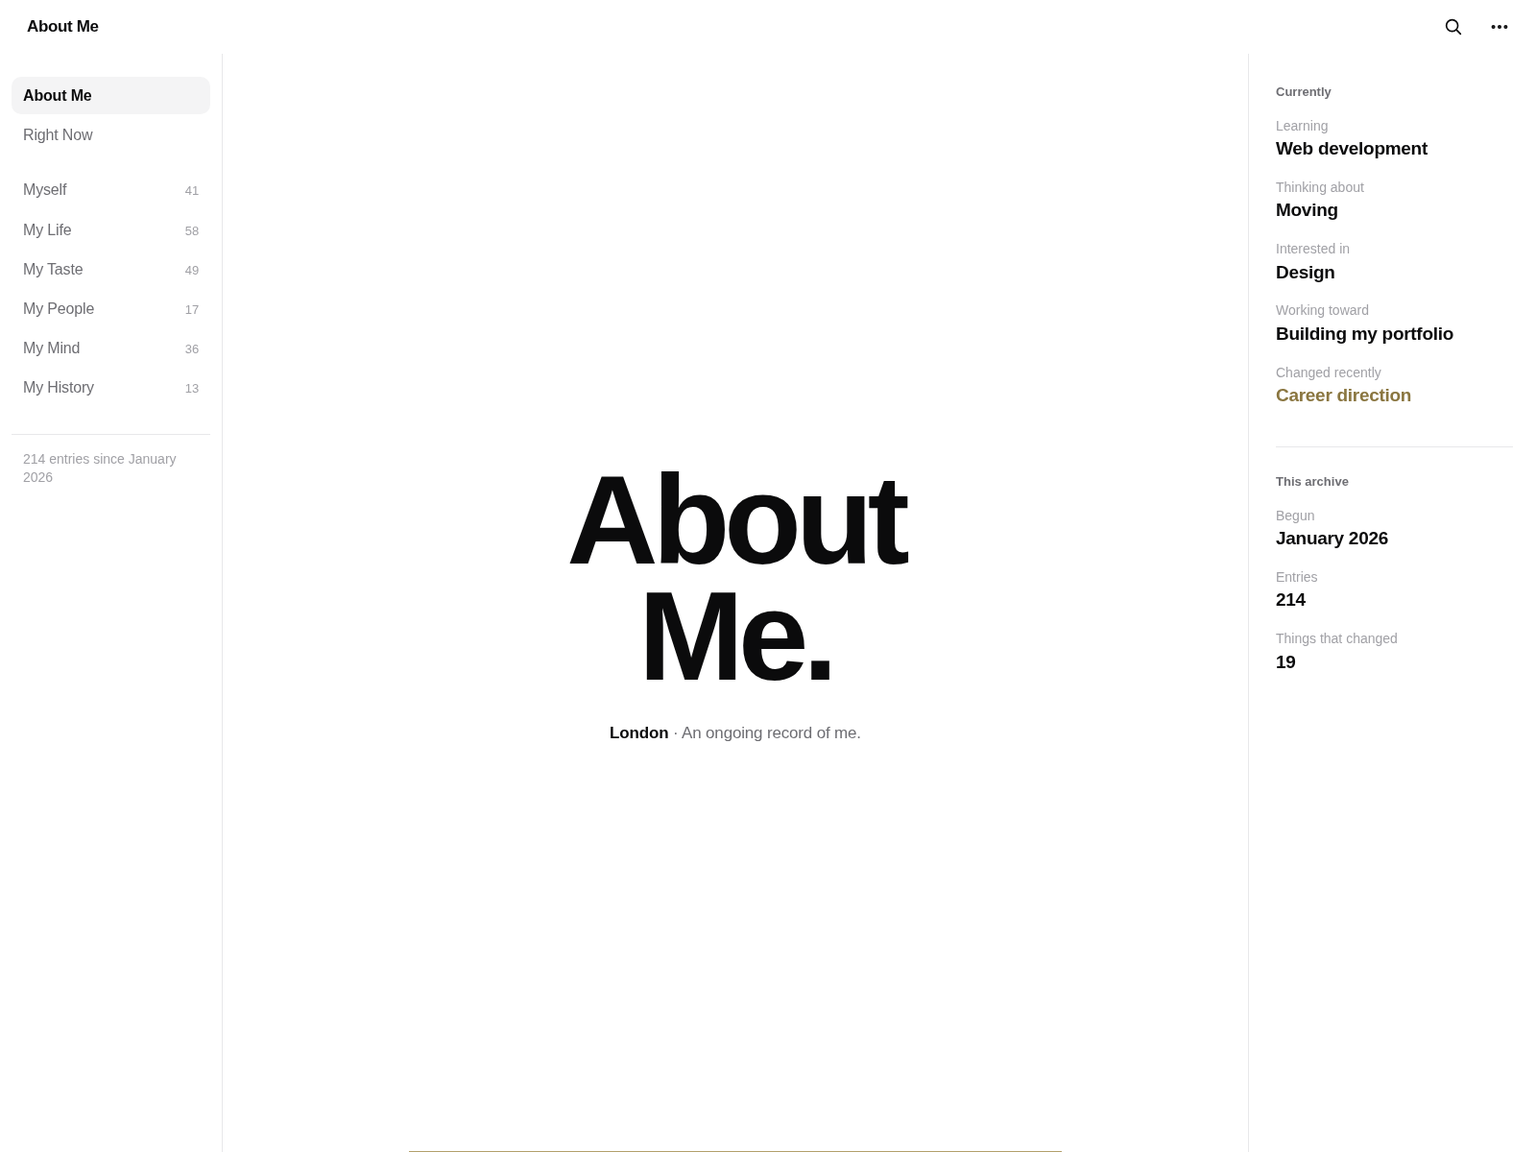
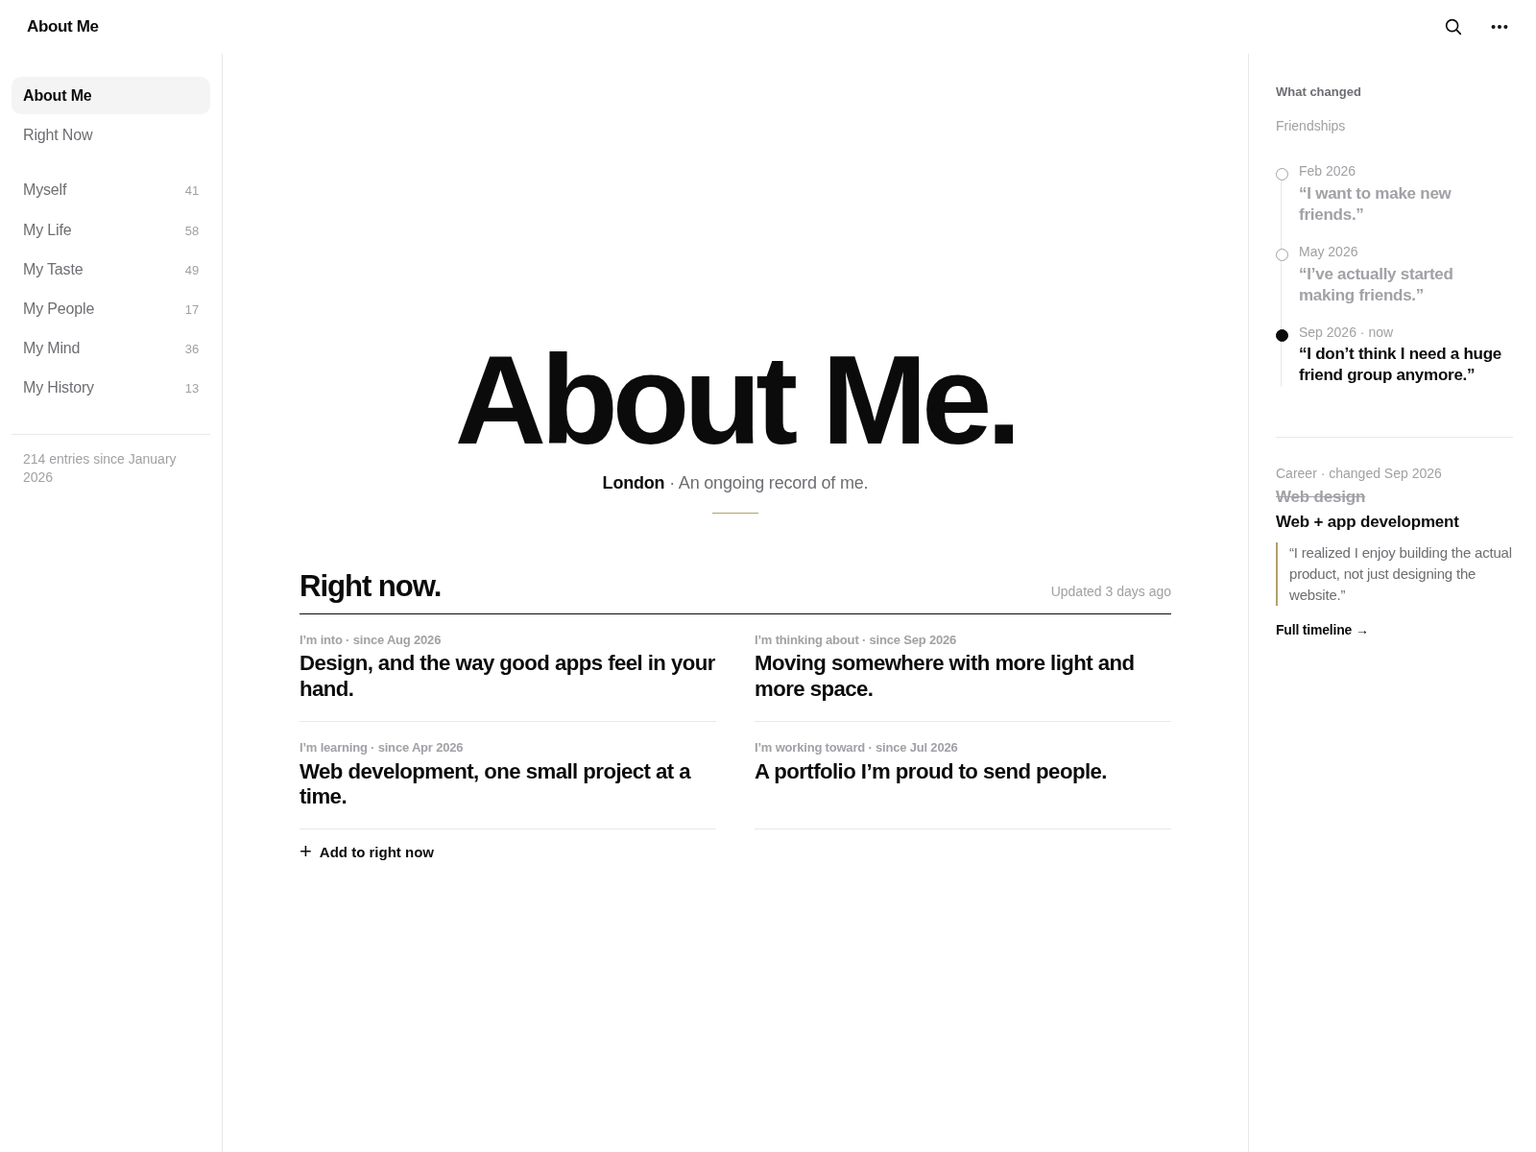
Fit the About Me home screen to one iPad screen with no scrolling
Condense the portrait home into statement, 2x2 Right Now, 3x2 chapter
grid and a two-line What Changed strip, with type scaled to window
height. Landscape centres the statement and Right Now, and moves the
change history into the right panel.

Claude-Session: https://claude.ai/code/session_01B2jaZ1SNYJtGLSRg6z58ic

diff --git a/home.html b/home.html
@@ -93,8 +93,10 @@ p { margin: 0; }
     border-right: 1px solid var(--rule);
   }
   .main { padding-inline: clamp(40px, 5vw, 80px); }
-  .chapters-index { display: none; }   /* the sidebar is the index now */
-  .hero { min-height: calc(100dvh - var(--bar-h) - env(safe-area-inset-top, 0px)); }
+  .home .book { display: none; }                    /* the sidebar is the index now */
+  .home { align-content: center !important; gap: clamp(24px, 5vh, 64px) !important; }
+  .home .statement h1 span { display: inline; }            /* one line in landscape */
+  .home .statement h1 { font-size: clamp(56px, 11vh, 132px); }
 }
 /* ── Landscape, wide: + context panel ───────────────────── */
 @media (orientation: landscape) and (min-width: 1100px) {
@@ -104,6 +106,7 @@ p { margin: 0; }
     height: calc(100dvh - var(--bar-h) - env(safe-area-inset-top, 0px)); overflow-y: auto;
     padding: 32px max(24px, env(safe-area-inset-right, 0px)) 32px 28px; border-left: 1px solid var(--rule);
   }
+  .home .latest { display: none; }                  /* lives in the context panel */
 }
 
 /* ── Sidebar / drawer nav ───────────────────────────────── */
@@ -118,73 +121,68 @@ p { margin: 0; }
 .nav .gap { height: 14px; }
 .nav-foot { margin-top: 28px; padding: 16px 12px 0; border-top: 1px solid var(--rule); }
 
-/* ── Home: the statement ────────────────────────────────── */
-.hero {
-  min-height: calc(100svh - var(--bar-h) - env(safe-area-inset-top, 0px) - env(safe-area-inset-bottom, 0px));
-  display: grid; place-content: center; justify-items: center; text-align: center; gap: 28px; position: relative;
-  padding-block: 48px;
-}
-.hero h1 { font: 800 var(--t-hero)/.92 var(--sans); letter-spacing: -.045em; }
-.hero h1 span { display: block; }
-.hero .sub { font: 500 17px/1.4 var(--sans); color: var(--muted); letter-spacing: -.01em; }
-.hero .sub b { color: var(--ink); font-weight: 600; }
-.hero::after {   /* the thin gold line from the reference */
-  content: ""; position: absolute; left: 50%; bottom: 0; width: min(100vw, 100%); transform: translateX(-50%);
-  height: 1px; background: var(--gold);
-}
+/* ── Home: one screen, no scroll on iPad ────────────────── */
+.home { max-width: 960px; margin-inline: auto; display: grid; gap: 40px; padding-block: 32px 48px; }
+.statement { display: grid; justify-items: center; text-align: center; gap: 14px; }
+.statement h1 { font: 800 clamp(52px, 7.6vh, 124px)/.9 var(--sans); letter-spacing: -.045em; }
+.statement h1 span { display: block; }
+.statement .sub { font: 500 clamp(15px, 1.5vh, 18px)/1.4 var(--sans); color: var(--muted); }
+.statement .sub b { color: var(--ink); font-weight: 600; }
+.statement::after { content: ""; width: 48px; height: 1px; background: var(--gold); margin-top: 4px; }
 
-.section { margin-top: 120px; }
-.section-head { display: flex; justify-content: space-between; align-items: baseline; gap: 16px; margin-bottom: 8px; }
-.section-title { font: 800 var(--t-chapter)/1 var(--sans); letter-spacing: -.035em; }
+.block-head { display: flex; justify-content: space-between; align-items: baseline; gap: 16px; padding-bottom: 12px; border-bottom: 1px solid var(--ink); }
+.block-head h2 { font: 800 clamp(24px, 2.6vh, 34px)/1 var(--sans); letter-spacing: -.035em; }
 
-/* ── Right now ──────────────────────────────────────────── */
-.now ul { margin: 0; padding: 0; }
-.now li { list-style: none; padding-block: 26px; border-bottom: 1px solid var(--rule); display: grid; gap: 8px; }
-.now .sentence { font: 700 var(--t-now)/1.2 var(--sans); letter-spacing: -.025em; }
-.now .sentence em { font-style: normal; color: var(--faint); }
-.add-line { margin-top: 20px; display: inline-flex; align-items: center; gap: 10px; font: 600 16px/1 var(--sans); color: var(--ink); padding: 10px 0; }
-.add-line::before { content: "+"; font: 400 24px/1 var(--sans); }
+.now-grid ul { margin: 0; padding: 0; display: grid; grid-template-columns: repeat(2, minmax(0, 1fr)); column-gap: 40px; }
+.now-grid li { list-style: none; display: grid; align-content: start; gap: 4px; padding-block: clamp(12px, 1.6vh, 22px); border-bottom: 1px solid var(--rule); }
+.now-grid .lead { font: 600 13px/1.2 var(--sans); color: var(--faint); }
+.now-grid .sentence { font: 700 clamp(17px, 1.85vh, 26px)/1.2 var(--sans); letter-spacing: -.025em; }
+.add-line { justify-self: start; display: inline-flex; align-items: center; gap: 8px; font: 600 15px/1 var(--sans); color: var(--ink); padding: 12px 0 0; }
+.add-line::before { content: "+"; font: 400 22px/1 var(--sans); }
 
-/* ── Chapters (portrait) ────────────────────────────────── */
-.chapters-index { margin-top: 120px; }
-.chapter {
-  display: grid; gap: 10px; padding-block: 44px; border-top: 1px solid var(--rule);
-  grid-template-columns: minmax(0, 1fr) auto; column-gap: 24px;
-}
-.chapter:last-child { border-bottom: 1px solid var(--rule); }
-.chapter .label { grid-column: 1 / -1; }
-.chapter h2 { font: 800 var(--t-chapter)/1 var(--sans); letter-spacing: -.035em; }
-.chapter .go { align-self: center; font: 500 30px/1 var(--sans); color: var(--faint); transition: transform .2s, color .2s; }
-.chapter:hover .go { color: var(--ink); transform: translateX(4px); }
-.chapter .contents { grid-column: 1 / -1; font: 500 19px/1.55 var(--sans); color: var(--muted); }
-.chapter .contents span + span::before { content: "·"; color: var(--faint); padding-inline: .4em; }
-.chapter .meta { grid-column: 1 / -1; margin-top: 2px; }
-.chapter .meta b { font-weight: 600; color: var(--gold-ink); }
+.book { display: grid; grid-template-columns: repeat(3, minmax(0, 1fr)); column-gap: 40px; align-content: center; }
+.ch { display: grid; align-content: start; gap: 3px; min-width: 0; padding-block: clamp(12px, 1.6vh, 26px); border-top: 1px solid var(--rule); }
+.ch h2 { font: 800 clamp(24px, 2.8vh, 42px)/1 var(--sans); letter-spacing: -.035em; transition: transform .2s; }
+.ch:hover h2 { transform: translateX(3px); }
+.ch .contents { font: 500 clamp(14px, 1.35vh, 17px)/1.4 var(--sans); color: var(--muted); white-space: nowrap; overflow: hidden; text-overflow: ellipsis; }
+.ch .label { white-space: nowrap; overflow: hidden; text-overflow: ellipsis; }
+.ch .meta b { font-weight: 600; color: var(--gold-ink); }
 
-/* ── What changed ───────────────────────────────────────── */
-.thread { margin-top: 28px; position: relative; padding-left: 28px; }
+.latest { display: grid; gap: 12px; }
+.latest .rows { display: grid; gap: 10px; }
+.latest .row { display: flex; flex-wrap: wrap; align-items: baseline; gap: 6px 12px; font: 700 clamp(15px, 1.6vh, 20px)/1.3 var(--sans); letter-spacing: -.02em; }
+.latest .row { display: grid; grid-template-columns: 96px minmax(0, 1fr); gap: 12px; }
+.latest .row > span:last-child { display: flex; flex-wrap: wrap; align-items: baseline; gap: 2px 10px; }
+.latest .topic { font: 600 13px/1.6 var(--sans); color: var(--faint); letter-spacing: 0; }
+.latest .old { color: var(--faint); }
+.latest .was { color: var(--faint); text-decoration: line-through; text-decoration-thickness: 1.5px; }
+.latest .to { color: var(--gold-ink); font-weight: 500; }
+
+/* Context-panel history (landscape wide) */
+.thread { margin-top: 4px; position: relative; padding-left: 24px; }
 .thread::before { content: ""; position: absolute; left: 5px; top: 12px; bottom: 12px; width: 1px; background: var(--rule); }
-.thread .step { position: relative; padding-block: 10px 18px; display: grid; gap: 4px; }
-.thread .step::before {
-  content: ""; position: absolute; left: -28px; top: 17px; width: 11px; height: 11px; border-radius: 50%;
-  background: var(--bg); border: 1.5px solid var(--faint);
-}
+.thread .step { position: relative; padding-block: 6px 12px; display: grid; gap: 2px; }
+.thread .step::before { content: ""; position: absolute; left: -24px; top: 12px; width: 11px; height: 11px; border-radius: 50%; background: var(--bg); border: 1.5px solid var(--faint); }
 .thread .step.now-step::before { background: var(--ink); border-color: var(--ink); }
-.thread .quote { font: 700 24px/1.25 var(--sans); letter-spacing: -.02em; }
+.thread .quote { font: 700 17px/1.3 var(--sans); letter-spacing: -.015em; }
 .thread .step:not(.now-step) .quote { color: var(--faint); }
-.thread-title { display: flex; justify-content: space-between; align-items: baseline; gap: 12px; margin-top: 40px; }
-.thread-title h3 { font: 700 20px/1.2 var(--sans); color: var(--muted); letter-spacing: -.01em; }
-
-.change { margin-top: 56px; display: grid; grid-template-columns: 1fr auto 1fr; gap: 8px 20px; align-items: baseline; }
-.change .col { display: grid; gap: 6px; }
-.change .was { font: 700 24px/1.2 var(--sans); color: var(--faint); text-decoration: line-through; text-decoration-thickness: 1.5px; letter-spacing: -.02em; }
-.change .is { font: 700 24px/1.2 var(--sans); letter-spacing: -.02em; }
-.change .arrow { font: 500 26px/1 var(--sans); color: var(--gold-ink); align-self: end; }
-.change .why { grid-column: 1 / -1; margin-top: 14px; font: 500 19px/1.45 var(--sans); color: var(--muted); padding-left: 16px; border-left: 2px solid var(--gold); }
-.link { font: 600 15px/1 var(--sans); color: var(--ink); white-space: nowrap; }
+.change { display: grid; gap: 4px; }
+.change .was { font: 700 17px/1.3 var(--sans); color: var(--faint); text-decoration: line-through; }
+.change .is { font: 700 17px/1.3 var(--sans); }
+.change .why { margin-top: 6px; font: 500 15px/1.45 var(--sans); color: var(--muted); padding-left: 12px; border-left: 2px solid var(--gold); }
+.link { font: 600 14px/1 var(--sans); color: var(--ink); white-space: nowrap; }
 .link:hover { text-decoration: underline; text-underline-offset: 4px; }
 
-.sample-note { margin-top: 96px; text-align: center; }
+/* Fit the home screen to the window on anything iPad-sized */
+@media (min-width: 700px) and (min-height: 600px) {
+  html.fit { overflow: hidden; }
+  .main.is-home { padding-block: 0; }
+  .home {
+    height: calc(100dvh - var(--bar-h) - env(safe-area-inset-top, 0px) - env(safe-area-inset-bottom, 0px));
+    align-content: space-evenly; gap: clamp(12px, 2vh, 40px);
+    padding-block: clamp(12px, 3vh, 48px) clamp(16px, 3vh, 40px); overflow: hidden;
+  }
+}
 
 /* ── Context panel ──────────────────────────────────────── */
 .ctx-block { display: grid; gap: 18px; }
@@ -231,9 +229,7 @@ p { margin: 0; }
 .results .empty { padding: 16px 14px; color: var(--muted); }
 
 @media (max-width: 520px) {
-  .change { grid-template-columns: 1fr; }
-  .change .arrow { transform: rotate(90deg); justify-self: start; }
-  .section, .chapters-index { margin-top: 88px; }
+  .now-grid ul, .book { grid-template-columns: 1fr; }
 }
 @media (prefers-reduced-motion: reduce) { * { transition: none !important; } }
 </style>
@@ -330,43 +326,35 @@ function navHTML(current) {
 }
 
 function homeHTML() {
-  return `<div class="column">
-    <header class="hero">
-      <h1><span>About</span><span>Me.</span></h1>
+  const last = thread.steps.length - 1;
+  return `<div class="home">
+    <header class="statement">
+      <h1><span>About</span> <span>Me.</span></h1>
       <p class="sub"><b>${esc(person.name)}</b> · ${esc(person.line)}</p>
     </header>
 
-    <section class="section now" id="now" aria-labelledby="nowLabel">
-      <div class="section-head"><h2 class="section-title" id="nowLabel">Right now.</h2><span class="meta">Updated 3 days ago</span></div>
-      <ul>${rightNow.map(r => `<li><p class="sentence"><em>${r.lead}</em> ${esc(r.text)}</p><span class="meta">since ${r.since}</span></li>`).join("")}</ul>
+    <section class="now-grid" id="now" aria-labelledby="nowLabel">
+      <div class="block-head"><h2 id="nowLabel">Right now.</h2><span class="meta">Updated 3 days ago</span></div>
+      <ul>${rightNow.map(r => `<li><span class="lead">${r.lead} · since ${r.since}</span><p class="sentence">${esc(r.text[0].toUpperCase() + r.text.slice(1))}</p></li>`).join("")}</ul>
       <button class="add-line" type="button">Add to right now</button>
     </section>
 
-    <section class="chapters-index" aria-label="Chapters">
-      ${chapters.map(c => `<a class="chapter" href="#${c.id}">
+    <nav class="book" aria-label="Chapters">
+      ${chapters.map(c => `<a class="ch" href="#${c.id}">
         <span class="label">${esc(c.tagline)}</span>
-        <h2>${esc(c.title)}</h2><span class="go" aria-hidden="true">→</span>
-        <p class="contents">${c.parts.slice(0, 6).map(p => `<span>${esc(p[0])}</span>`).join("")}${c.parts.length > 6 ? `<span>${c.parts.length - 6} more</span>` : ""}</p>
-        <p class="meta">${c.entries} entries${c.changes ? ` · <b>changed ${c.changes} times</b>` : ""}</p>
+        <h2>${esc(c.title)}</h2>
+        <p class="contents">${c.parts.slice(0, 3).map(p => esc(p[0])).join(" · ")}${c.parts.length > 3 ? ` +${c.parts.length - 3}` : ""}</p>
+        <p class="meta">${c.entries} entries${c.changes ? ` · <b>changed ${c.changes}×</b>` : ""}</p>
       </a>`).join("")}
-    </section>
+    </nav>
 
-    <section class="section" aria-labelledby="latelyLabel">
-      <div class="section-head"><h2 class="section-title" id="latelyLabel">What changed.</h2><a class="link" href="#history">Timeline →</a></div>
-
-      <div class="thread-title"><h3>${thread.topic}</h3><span class="meta">3 versions</span></div>
-      <div class="thread">${thread.steps.map((s, i) => `<div class="step ${i === thread.steps.length - 1 ? "now-step" : ""}">
-        <span class="meta">${s.date}${i === thread.steps.length - 1 ? " · now" : ""}</span><p class="quote">“${esc(s.quote)}”</p></div>`).join("")}</div>
-
-      <div class="change">
-        <div class="col"><span class="label">Previously</span><span class="was">${esc(change.was)}</span></div>
-        <span class="arrow" aria-hidden="true">→</span>
-        <div class="col"><span class="label">Now · ${change.date}</span><span class="is">${esc(change.is)}</span></div>
-        <p class="why">“${esc(change.why)}”</p>
+    <section class="latest" aria-labelledby="latelyLabel">
+      <div class="block-head"><h2 id="latelyLabel">What changed.</h2><a class="link" href="#history">Timeline →</a></div>
+      <div class="rows">
+        <p class="row"><span class="topic">${thread.topic}</span><span><span class="old">“${esc(thread.steps[0].quote)}”</span><span class="to">→</span><span>“${esc(thread.steps[last].quote)}”</span><span class="meta">${thread.steps.length} versions</span></span></p>
+        <p class="row"><span class="topic">${change.topic}</span><span><span class="was">${esc(change.was)}</span><span class="to">→</span><span>${esc(change.is)}</span><span class="meta">${change.date}</span></span></p>
       </div>
     </section>
-
-    <p class="meta sample-note">Entries shown are sample content from the design brief.</p>
   </div>`;
 }
 
@@ -399,14 +387,16 @@ function contextHTML(route) {
       <div class="ctx-item"><span class="meta">Times it changed</span><span class="v">${c.changes}</span></div></div>
       <div class="ctx-block"><span class="label">Recent changes</span>${related.length ? related.map(t => `<div class="ctx-item"><span class="meta">${esc(t.topic)}</span><span class="v changed">${esc(t.is || t.steps.at(-1).quote)}</span></div>`).join("") : `<p class="meta">None yet.</p>`}</div>`;
   }
-  const short = [["Learning", "Web development"], ["Thinking about", "Moving"], ["Interested in", "Design"], ["Working toward", "Building my portfolio"]];
-  return `<div class="ctx-block"><span class="label">Currently</span>
-      ${short.map(([k, v]) => `<div class="ctx-item"><span class="meta">${k}</span><span class="v">${v}</span></div>`).join("")}
-      <div class="ctx-item"><span class="meta">Changed recently</span><span class="v changed">Career direction</span></div></div>
-    <div class="ctx-block"><span class="label">This archive</span>
-      <div class="ctx-item"><span class="meta">Begun</span><span class="v">${person.begun}</span></div>
-      <div class="ctx-item"><span class="meta">Entries</span><span class="v">${person.entries}</span></div>
-      <div class="ctx-item"><span class="meta">Things that changed</span><span class="v">${chapters.reduce((n, c) => n + c.changes, 0)}</span></div></div>`;
+  const last = thread.steps.length - 1;
+  return `<div class="ctx-block"><span class="label">What changed</span>
+      <div class="ctx-item"><span class="meta">${thread.topic}</span></div>
+      <div class="thread">${thread.steps.map((st, i) => `<div class="step ${i === last ? "now-step" : ""}">
+        <span class="meta">${st.date}${i === last ? " · now" : ""}</span><p class="quote">“${esc(st.quote)}”</p></div>`).join("")}</div></div>
+    <div class="ctx-block"><div class="change">
+      <span class="meta">${change.topic} · changed ${change.date}</span>
+      <span class="was">${esc(change.was)}</span><span class="is">${esc(change.is)}</span>
+      <p class="why">“${esc(change.why)}”</p></div>
+      <a class="link" href="#history">Full timeline →</a></div>`;
 }
 
 function render() {
@@ -418,8 +408,10 @@ function render() {
   $("#drawerNav").innerHTML = navHTML(route);
   $("#context").innerHTML = contextHTML(route);
   $("#sideFoot").textContent = `${person.entries} entries since ${person.begun}`;
-  if (route === "now") $("#now")?.scrollIntoView({ block: "start" });
-  else window.scrollTo(0, 0);
+  const home = !chapter;
+  document.documentElement.classList.toggle("fit", home);
+  $("#main").classList.toggle("is-home", home);
+  window.scrollTo(0, 0);
   closeAll();
 }
 

diff --git a/DESIGN.md b/DESIGN.md
@@ -4,7 +4,9 @@ The prototype is `home.html`. Open it in Safari on the iPad and rotate the devic
 
 Metaphor: **a personal book with an archive.** It has chapters instead of cards and sentences instead of fields. Old versions stay on the record.
 
-Visual direction (v2): **one bold statement on white.** Pure white page, heavy black grotesk, centered, and mostly empty space, like an Apple product page (the "Create More." reference). The home screen opens on a single full-screen statement, **About Me.**, and everything else sits below it.
+Visual direction (v2): **one bold statement on white.** Pure white page, heavy black grotesk, centered, and mostly empty space, like an Apple product page (the "Create More." reference). The home screen leads with the statement **About Me.**
+
+**Rule: on iPad the home screen never scrolls.** It is one composed screen in every orientation and window size down to 700 × 600pt. Type sizes scale with window height (`vh` clamps), so the same composition fits an iPad mini as well as a 13" iPad Pro. Only narrower windows (Slide Over, iPhone) fall back to scrolling. Chapter pages can scroll.
 
 ---
 
@@ -23,24 +25,22 @@ Rule: *landscape-shaped **and** ≥ 900pt wide* switches to the archive layout. 
 
 Note: a 1200pt canvas is wider than any real iPad (13" iPad Pro is 1032 × 1376pt). So spacing is defined as a fixed text measure plus flexible margins, not as fixed pixel offsets from the canvas.
 
-## 2. Portrait home: "the book"
+## 2. Portrait home: "the book" (one screen)
 
-Top to bottom, one column, scrolls:
+1. **Top bar** (56pt): Menu · About Me · Search
+2. **Statement**: **About / Me.** on two lines, centered, 800 weight, then **London** · An ongoing record of me., then a short gold hairline.
+3. **Right now.**: a 2 × 2 grid. Each cell has a grey lead-in with date ("I'm into · since Aug 2026") and a bold sentence. Then **+ Add to right now**.
+4. **Chapters**: a 3 × 2 grid of type only, with no boxes: tagline, big title (Myself), the first three parts plus a count, and "41 entries · changed 4×". Each block is a tap target.
+5. **What changed.**: two lines. Friendships: first version → latest version (3 versions). Career: ~~Web design~~ → Web + app development.
 
-1. **Top bar** (56pt, translucent, hairline appears once scrolled): Menu · ABOUT ME · Search
-2. **Statement (fills the first screen)**: **About / Me.** centered in 800-weight grotesk (~130pt), with one small line under it: **London** · An ongoing record of me. A thin gold hairline marks the bottom of the first screen.
-3. **Right Now**: four sentences, not fields: *I'm into* design, and the way… Each has a `since Aug 2026` stamp. Then **+ Add to right now**.
-4. **Chapters**: Myself, My Life, My Taste, My People, My Mind, My History. Each one is a chapter opening, not a button: tagline label ("Who I am"), big serif title, its contents as an inline index (Personality · Values · Standards …), and `41 entries · changed 4 times`. The whole block is the tap target.
-5. **What Changed, Lately**: one evolution thread (Friendships: three dated versions, the newest marked *now*) and one before → after change (Career), with the *why* quoted.
+## 3. Landscape home: "the archive" (one screen)
 
-You never see everything at once. The chapters sit below the fold on purpose.
-
-## 3. Landscape home: "the archive"
-
-- **Top bar** across the full width: ABOUT ME (left) · Search · ⋯ (right)
-- **Left, 232pt, sidebar**: About Me, Right Now, then the six chapters with entry counts. It replaces the chapter list, so the chapter index is hidden in this layout.
-- **Center, the page**: a raised sheet with a soft left shadow acting as the spine. Same masthead, Right Now, and What Changed as portrait.
-- **Right, 300pt, context**: on Home it shows **Currently** (Learning / Thinking about / Interested in / Working toward / Changed recently) and **This archive** (begun, entries, number of changes). On a chapter page it switches to that chapter's stats and recent changes, so the panel is contextual rather than duplicated.
+- **Top bar** across the full width: About Me (left) · Search · ⋯ (right)
+- **Left, 232pt, sidebar**: About Me, Right Now, and the six chapters with counts. This replaces the chapter grid.
+- **Centre**: the statement on one line (**About Me.**) and the Right now. grid, vertically centered.
+- **Right, 300pt, What changed**: the full Friendships thread (three dated versions, the newest marked *now*) and the Career before → after with the *why*. On a chapter page this panel shows that chapter's changes.
+- So the three columns read: where to go · who I am now · how I got here. The earlier "Currently" panel was cut because it repeated Right now. word for word, which the no-scroll screen has no room for.
+- Between 900 and 1100pt wide (split view) there's no right panel, so the two-line What changed. strip returns to the centre.
 
 Content and features are the same as portrait. Only the arrangement changes.
 
